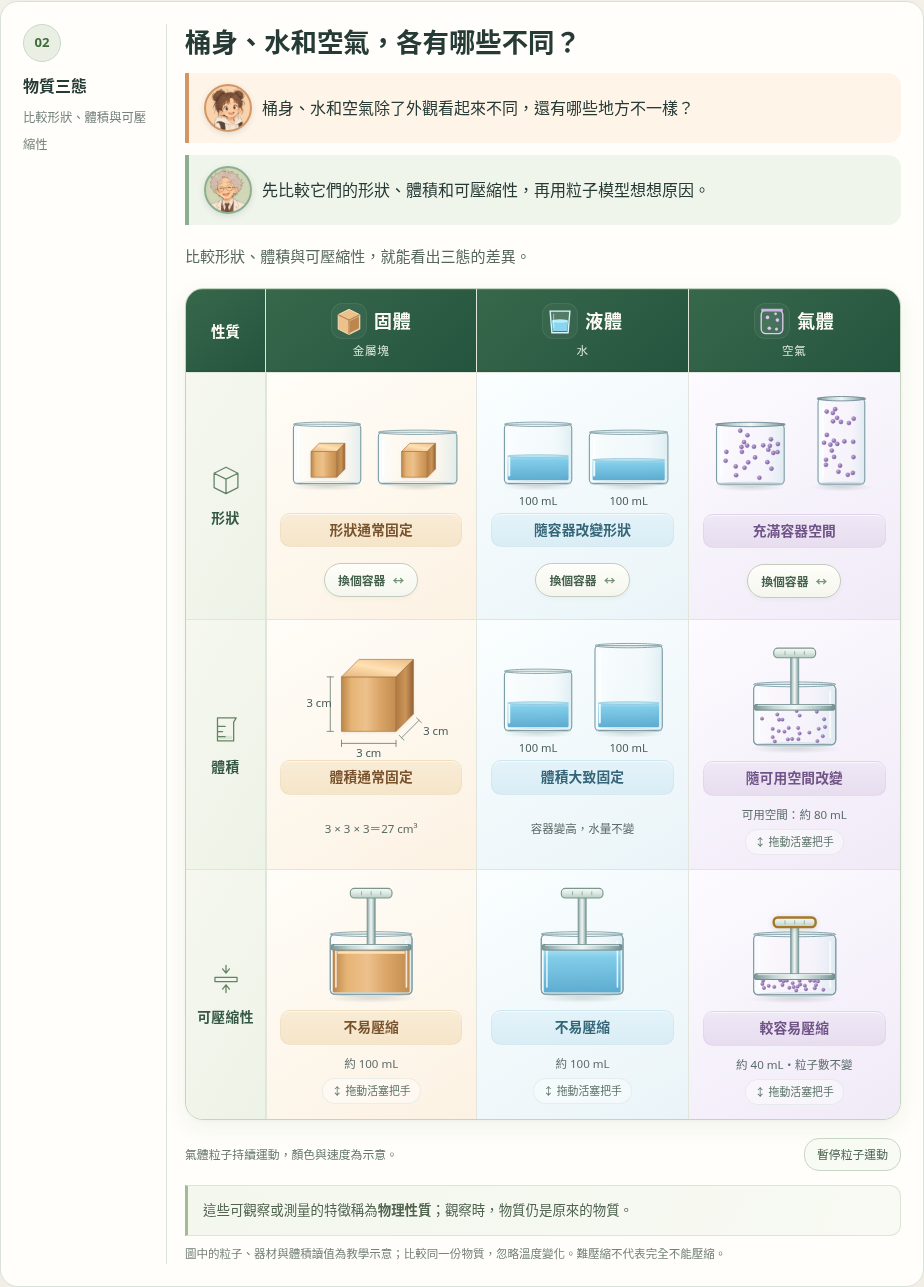
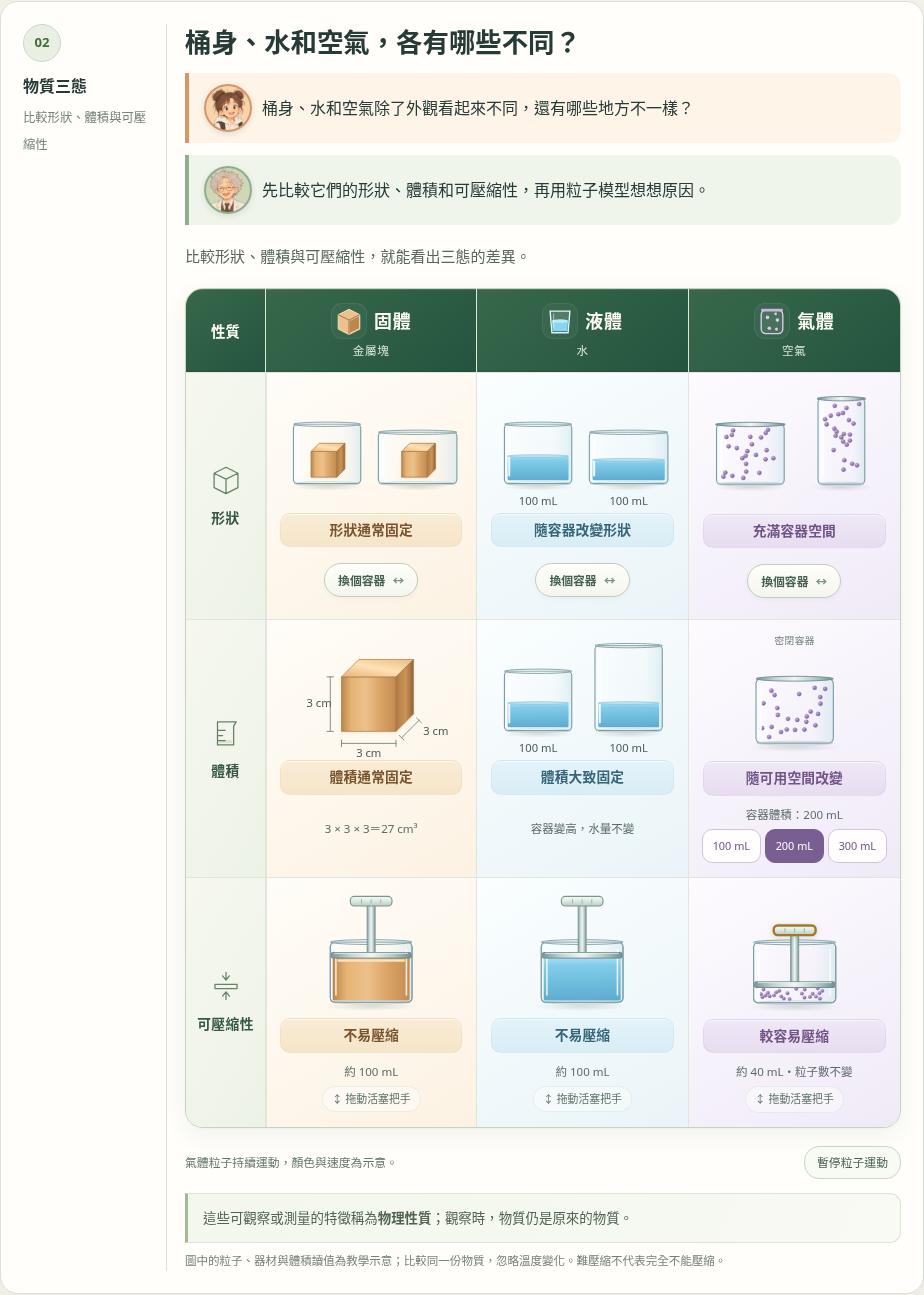
以切換密閉容器呈現2.1氣體體積並區分壓縮

diff --git a/units/2/parts/2.1/index.html b/units/2/parts/2.1/index.html
@@ -636,8 +636,8 @@
     #s2 .next-hint { border-left-color:#88ae86; background:#f4f7f1; color:#4c6255!important; }
     #s2 button:focus-visible,#s2 a:focus-visible,#s2 input:focus-visible { outline-color:#79b89a; }
   </style>
-  <link rel="stylesheet" href="assets/states-table.css?v=20261029-motion">
-  <script src="assets/states-table.js?v=20261029-motion" defer></script>
+  <link rel="stylesheet" href="assets/states-table.css?v=20261029-volume-switch">
+  <script src="assets/states-table.js?v=20261029-volume-switch" defer></script>
 </head>
 <body>
   <header class="shell masthead">
@@ -743,7 +743,7 @@
               <table class="states-visual-table">
                 <caption class="visually-hidden">固體、液體與氣體的形狀、體積及可壓縮性比較；所有圖解與結論直接可見。</caption>
                 <colgroup><col class="sv-property-col"><col><col><col></colgroup>
-                <thead><tr><th scope="col">性質</th><th scope="col" class="sv-solid"><span class="sv-state-icon" aria-hidden="true"><svg viewBox="0 0 40 40"><path d="M8 13l12-6 12 6v16l-12 6-12-6z" fill="#edc18c" stroke="#ffe4bf"/><path d="M8 13l12 6 12-6M20 19v16" fill="none" stroke="#976e42"/><path d="M21 20l10-5v13l-10 5z" fill="#bc864e"/></svg></span><strong>固體</strong><small>金屬塊</small></th><th scope="col" class="sv-liquid"><span class="sv-state-icon" aria-hidden="true"><svg viewBox="0 0 40 40"><path d="M9 9h22l-2 24H11z" fill="#ffffff24" stroke="#dcf4fc" stroke-width="1.5"/><path d="M11 20h18l-1 11H12z" fill="#89d5ed"/><ellipse cx="20" cy="20" rx="9" ry="2" fill="#b6edfb"/><path d="M13 12v16" stroke="#fff" opacity=".6"/></svg></span><strong>液體</strong><small>水</small></th><th scope="col" class="sv-gas"><span class="sv-state-icon" aria-hidden="true"><svg viewBox="0 0 40 40"><rect x="8" y="8" width="24" height="26" rx="5" fill="#ffffff15" stroke="#ddccef" stroke-width="1.5"/><path d="M8 8h24" stroke="#cbb3e4" stroke-width="3"/><g fill="#d9c8ef"><circle cx="15" cy="16" r="2"/><circle cx="26" cy="19" r="2"/><circle cx="17" cy="28" r="2"/><circle cx="25" cy="29" r="1.7"/><circle cx="24" cy="12" r="1.5"/></g></svg></span><strong>氣體</strong><small>空氣</small></th></tr></thead><tbody><tr><th scope="row"><span class="sv-property-icon" aria-hidden="true"><svg viewBox="0 0 40 40"><path d="M6 12l14-7 14 7v17l-14 7-14-7zM6 12l14 7 14-7M20 19v17"/></svg></span>形狀</th><td class="sv-solid" data-visual-cell="solid.shape"><div class="sv-cell"><svg viewBox="0 0 240 160" role="img" aria-label="同一金屬塊放入兩種容器，形狀與大小保持相同" ><ellipse class="sv-shadow" cx="65" cy="127" rx="45" ry="5"/><ellipse class="sv-shadow" cx="178" cy="127" rx="39" ry="5"/><rect class="sv-glass" x="23.0" y="49" width="84" height="74" rx="5"/><g class="sv-cube"><path d="M45 83l32 0v32h-32z" fill="url(#sv-metal-front)"/><path d="M45 83l10.24 -10.24h32l-10.24 10.24z" fill="url(#sv-metal-top)"/><path d="M77 83l10.24 -10.24v32l-10.24 10.24z" fill="url(#sv-metal-side)"/></g><path class="sv-highlight" d="M29.0 57v56"/><ellipse class="sv-rim" cx="65.0" cy="49.0" rx="42.0" ry="2.7"/><ellipse class="sv-floor-line" cx="65.0" cy="123.0" rx="41.0" ry="2.3"/><g data-vessel-changing="solid"><rect class="sv-glass" x="149.0" y="17" width="58" height="106" rx="5"/><g class="sv-cube"><path d="M158 83l32 0v32h-32z" fill="url(#sv-metal-front)"/><path d="M158 83l10.24 -10.24h32l-10.24 10.24z" fill="url(#sv-metal-top)"/><path d="M190 83l10.24 -10.24v32l-10.24 10.24z" fill="url(#sv-metal-side)"/></g><path class="sv-highlight" d="M155.0 25v88"/><ellipse class="sv-rim" cx="178.0" cy="17.0" rx="29.0" ry="2.7"/><ellipse class="sv-floor-line" cx="178.0" cy="123.0" rx="28.0" ry="2.3"/></g></svg><strong class="sv-label">形狀通常固定</strong><div class="sv-controls"><button class="sv-action" type="button" data-change-vessel="solid">換個容器 <span aria-hidden="true">↔</span></button></div></div></td><td class="sv-liquid" data-visual-cell="liquid.shape"><div class="sv-cell"><svg viewBox="0 0 240 160" role="img" aria-label="同一份100毫升的水在寬杯水位較低，在窄杯水位較高" ><ellipse class="sv-shadow" cx="65" cy="127" rx="45" ry="5"/><ellipse class="sv-shadow" cx="178" cy="127" rx="39" ry="5"/><rect class="sv-glass" x="23.0" y="49" width="84" height="74" rx="5"/><rect class="sv-water" x="27.0" y="88.73684210526315" width="76" height="30.263157894736842" rx="2"/><path class="sv-surface" d="M27.0 88.73684210526315h76"/><path class="sv-highlight" d="M29.0 57v56"/><ellipse class="sv-rim" cx="65.0" cy="49.0" rx="42.0" ry="2.7"/><ellipse class="sv-floor-line" cx="65.0" cy="123.0" rx="41.0" ry="2.3"/><ellipse class="sv-meniscus" cx="65.0" cy="88.73684210526315" rx="38.0" ry="1.8"/><g data-vessel-changing="liquid"><rect class="sv-glass" x="149.0" y="17" width="58" height="106" rx="5"/><rect class="sv-water" x="153.0" y="73.0" width="50" height="46.0" rx="2"/><path class="sv-surface" d="M153.0 73.0h50"/><path class="sv-highlight" d="M155.0 25v88"/><ellipse class="sv-rim" cx="178.0" cy="17.0" rx="29.0" ry="2.7"/><ellipse class="sv-floor-line" cx="178.0" cy="123.0" rx="28.0" ry="2.3"/><ellipse class="sv-meniscus" cx="178.0" cy="73.0" rx="25.0" ry="1.8"/></g><text x="65" y="150" text-anchor="middle">100 mL</text><text x="178" y="150" text-anchor="middle">100 mL</text></svg><strong class="sv-label">隨容器改變形狀</strong><div class="sv-controls"><button class="sv-action" type="button" data-change-vessel="liquid">換個容器 <span aria-hidden="true">↔</span></button></div></div></td><td class="sv-gas" data-visual-cell="gas.shape"><div class="sv-cell"><svg viewBox="0 0 240 160" role="img" aria-label="同樣數量的氣體粒子分布於兩種密閉容器的整個空間" ><ellipse class="sv-shadow" cx="65" cy="127" rx="45" ry="5"/><ellipse class="sv-shadow" cx="178" cy="127" rx="39" ry="5"/><rect class="sv-glass" x="23.0" y="49" width="84" height="74" rx="5"/><path class="sv-highlight" d="M29.0 57v56"/><path class="sv-seal" d="M23.0 49h84"/><g data-shape-particles><circle class="sv-particle" cx="74.149" cy="96.632" r="2.6"/><circle class="sv-particle" cx="93.154" cy="69.968" r="2.6"/><circle class="sv-particle" cx="38.225" cy="103.118" r="2.6"/><circle class="sv-particle" cx="54.717" cy="79.262" r="2.6"/><circle class="sv-particle" cx="90.235" cy="85.532" r="2.6"/><circle class="sv-particle" cx="69.494" cy="63.758" r="2.6"/><circle class="sv-particle" cx="85.853" cy="100.508" r="2.6"/><circle class="sv-particle" cx="95.352" cy="60.242" r="2.6"/><circle class="sv-particle" cx="94.225" cy="93.536" r="2.6"/><circle class="sv-particle" cx="49.782" cy="91.940" r="2.6"/><circle class="sv-particle" cx="77.579" cy="87.278" r="2.6"/><circle class="sv-particle" cx="40.283" cy="80.294" r="2.6"/><circle class="sv-particle" cx="77.782" cy="73.598" r="2.6"/><circle class="sv-particle" cx="69.564" cy="81.554" r="2.6"/><circle class="sv-particle" cx="56.432" cy="100.862" r="2.6"/><circle class="sv-particle" cx="55.046" cy="62.618" r="2.6"/><circle class="sv-particle" cx="70.285" cy="107.486" r="2.6"/><circle class="sv-particle" cx="40.178" cy="89.282" r="2.6"/><circle class="sv-particle" cx="88.408" cy="77.810" r="2.6"/><circle class="sv-particle" cx="84.985" cy="65.012" r="2.6"/><circle class="sv-particle" cx="52.925" cy="70.346" r="2.6"/><circle class="sv-particle" cx="78.272" cy="112.166" r="2.6"/><circle class="sv-particle" cx="92.181" cy="108.158" r="2.6"/><circle class="sv-particle" cx="47.871" cy="108.704" r="2.6"/></g><ellipse class="sv-rim sv-rim-sealed" cx="65.0" cy="49.0" rx="42.0" ry="2.7"/><ellipse class="sv-floor-line" cx="65.0" cy="123.0" rx="41.0" ry="2.3"/><g data-vessel-changing="gas"><rect class="sv-glass" x="149.0" y="17" width="58" height="106" rx="5"/><path class="sv-highlight" d="M155.0 25v88"/><path class="sv-seal" d="M149.0 17h58"/><g data-shape-particles><circle class="sv-particle" cx="183.751" cy="86.302" r="2.6"/><circle class="sv-particle" cx="195.697" cy="45.418" r="2.6"/><circle class="sv-particle" cx="161.170" cy="96.248" r="2.6"/><circle class="sv-particle" cx="171.536" cy="59.668" r="2.6"/><circle class="sv-particle" cx="193.862" cy="69.282" r="2.6"/><circle class="sv-particle" cx="180.825" cy="35.896" r="2.6"/><circle class="sv-particle" cx="191.108" cy="92.246" r="2.6"/><circle class="sv-particle" cx="197.078" cy="30.504" r="2.6"/><circle class="sv-particle" cx="196.370" cy="81.555" r="2.6"/><circle class="sv-particle" cx="168.434" cy="79.108" r="2.6"/><circle class="sv-particle" cx="185.907" cy="71.960" r="2.6"/><circle class="sv-particle" cx="162.464" cy="61.251" r="2.6"/><circle class="sv-particle" cx="186.034" cy="50.984" r="2.6"/><circle class="sv-particle" cx="180.869" cy="63.183" r="2.6"/><circle class="sv-particle" cx="172.614" cy="92.788" r="2.6"/><circle class="sv-particle" cx="171.743" cy="34.148" r="2.6"/><circle class="sv-particle" cx="181.322" cy="102.945" r="2.6"/><circle class="sv-particle" cx="162.398" cy="75.032" r="2.6"/><circle class="sv-particle" cx="192.714" cy="57.442" r="2.6"/><circle class="sv-particle" cx="190.562" cy="37.818" r="2.6"/><circle class="sv-particle" cx="170.410" cy="45.997" r="2.6"/><circle class="sv-particle" cx="186.342" cy="110.121" r="2.6"/><circle class="sv-particle" cx="195.085" cy="103.976" r="2.6"/><circle class="sv-particle" cx="167.233" cy="104.813" r="2.6"/></g><ellipse class="sv-rim sv-rim-sealed" cx="178.0" cy="17.0" rx="29.0" ry="2.7"/><ellipse class="sv-floor-line" cx="178.0" cy="123.0" rx="28.0" ry="2.3"/></g></svg><strong class="sv-label">充滿容器空間</strong><div class="sv-controls"><button class="sv-action" type="button" data-change-vessel="gas">換個容器 <span aria-hidden="true">↔</span></button></div></div></td></tr><tr><th scope="row"><span class="sv-property-icon" aria-hidden="true"><svg viewBox="0 0 40 40"><path d="M10 7h22l-3 5v22H10V7zM10 17h9m-9 6h6m-6 6h9"/><path d="M12 28h15v4H12z" fill="currentColor" opacity=".15" stroke="none"/></svg></span>體積</th><td class="sv-solid" data-visual-cell="solid.volume"><div class="sv-cell"><svg viewBox="0 0 240 160" role="img" aria-label="金屬塊長寬高皆為3公分，體積27立方公分" ><g class="sv-cube"><path d="M83 56l68 0v68h-68z" fill="url(#sv-metal-front)"/><path d="M83 56l21.76 -21.76h68l-21.76 21.76z" fill="url(#sv-metal-top)"/><path d="M151 56l21.76 -21.76v68l-21.76 21.76z" fill="url(#sv-metal-side)"/></g><path class="sv-dimension" d="M69 56v68m-4-68h8m-8 68h8M83 139h68m-68-4v8m68-8v8"/><text x="55" y="94" text-anchor="middle">3 cm</text><text x="117" y="156" text-anchor="middle">3 cm</text><path class="sv-dimension" data-dimension="depth" d="M158 132l21.76-21.76M155 129l6 6M176.76 107.24l6 6"/><text x="185" y="128" data-dimension-label="depth">3 cm</text></svg><strong class="sv-label">體積通常固定</strong><div class="sv-controls"><span class="sv-value">3 × 3 × 3＝27 cm³</span></div></div></td><td class="sv-liquid" data-visual-cell="liquid.volume"><div class="sv-cell"><svg viewBox="0 0 240 160" role="img" aria-label="兩個等寬、不同高度的容器盛裝相同100毫升的水，水位相同，較高容器的上方空間更多" ><ellipse class="sv-shadow" cx="65" cy="127" rx="45" ry="5"/><ellipse class="sv-shadow" cx="178" cy="127" rx="45" ry="5"/><rect class="sv-glass" x="23.0" y="49" width="84" height="74" rx="5"/><rect class="sv-water" x="27.0" y="88.73684210526315" width="76" height="30.263157894736842" rx="2"/><path class="sv-surface" d="M27.0 88.73684210526315h76"/><path class="sv-highlight" d="M29.0 57v56"/><ellipse class="sv-rim" cx="65.0" cy="49.0" rx="42.0" ry="2.7"/><ellipse class="sv-floor-line" cx="65.0" cy="123.0" rx="41.0" ry="2.3"/><ellipse class="sv-meniscus" cx="65.0" cy="88.73684210526315" rx="38.0" ry="1.8"/><g data-vessel-static="liquid"><rect class="sv-glass" x="136" y="17" width="84" height="106" rx="5"/><rect class="sv-water" x="140" y="88.73684210526315" width="76" height="30.263157894736842" rx="2"/><path class="sv-surface" d="M140 88.73684210526315h76"/><path class="sv-highlight" d="M142 25v88"/><ellipse class="sv-rim" cx="178.0" cy="17.0" rx="42.0" ry="2.7"/><ellipse class="sv-floor-line" cx="178.0" cy="123.0" rx="41.0" ry="2.3"/><ellipse class="sv-meniscus" cx="178.0" cy="88.73684210526315" rx="38.0" ry="1.8"/></g><text x="65" y="150" text-anchor="middle">100 mL</text><text x="178" y="150" text-anchor="middle">100 mL</text></svg><strong class="sv-label">體積大致固定</strong><div class="sv-controls"><span class="sv-value">容器變高，水量不變</span></div></div></td><td class="sv-gas" data-visual-cell="gas.volume"><div class="sv-cell"><svg viewBox="0 0 240 160" role="img" aria-label="密閉氣缸的活塞可推拉，同一批24個粒子的可用空間隨之改變" data-piston="gas-volume" data-kind="gas" data-mode="volume"><ellipse class="sv-shadow" cx="120" cy="145" rx="58" ry="6"/><rect class="sv-glass" x="69" y="65" width="102" height="75" rx="6"/><g data-piston-fill><g data-piston-particles><circle class="sv-particle" cx="83" cy="111.875" r="2.8"/><circle class="sv-particle" cx="98" cy="111.875" r="2.8"/><circle class="sv-particle" cx="113" cy="111.875" r="2.8"/><circle class="sv-particle" cx="128" cy="111.875" r="2.8"/><circle class="sv-particle" cx="143" cy="111.875" r="2.8"/><circle class="sv-particle" cx="158" cy="111.875" r="2.8"/><circle class="sv-particle" cx="83" cy="117.625" r="2.8"/><circle class="sv-particle" cx="98" cy="117.625" r="2.8"/><circle class="sv-particle" cx="113" cy="117.625" r="2.8"/><circle class="sv-particle" cx="128" cy="117.625" r="2.8"/><circle class="sv-particle" cx="143" cy="117.625" r="2.8"/><circle class="sv-particle" cx="158" cy="117.625" r="2.8"/><circle class="sv-particle" cx="83" cy="123.375" r="2.8"/><circle class="sv-particle" cx="98" cy="123.375" r="2.8"/><circle class="sv-particle" cx="113" cy="123.375" r="2.8"/><circle class="sv-particle" cx="128" cy="123.375" r="2.8"/><circle class="sv-particle" cx="143" cy="123.375" r="2.8"/><circle class="sv-particle" cx="158" cy="123.375" r="2.8"/><circle class="sv-particle" cx="83" cy="129.125" r="2.8"/><circle class="sv-particle" cx="98" cy="129.125" r="2.8"/><circle class="sv-particle" cx="113" cy="129.125" r="2.8"/><circle class="sv-particle" cx="128" cy="129.125" r="2.8"/><circle class="sv-particle" cx="143" cy="129.125" r="2.8"/><circle class="sv-particle" cx="158" cy="129.125" r="2.8"/></g></g><ellipse class="sv-rim" cx="120" cy="65" rx="51" ry="3"/><path class="sv-barrel-light" d="M76 74v57M164 74v57"/><ellipse class="sv-floor-line" cx="120" cy="140" rx="48" ry="2.3"/><g data-piston-handle role="slider" tabindex="0" aria-label="氣體體積活塞" aria-valuemin="0" aria-valuemax="100" aria-valuenow="33" aria-orientation="vertical" transform="translate(0 100)"><rect class="sv-rod" x="115" y="-66" width="10" height="68" rx="3"/><rect class="sv-grip" x="94" y="-72" width="52" height="12" rx="5"/><rect class="sv-piston-face" x="70" y="-2" width="100" height="7" rx="2"/><path class="sv-grip-grooves" d="M108-68v4m12-4v4m12-4v4"/><path class="sv-piston-glint" d="M74-1h92"/><rect class="sv-hit" x="78" y="-79" width="84" height="88" fill="transparent"/></g><path class="sv-front" d="M69 70v64q0 6 6 6h90q6 0 6-6V70"/></svg><strong class="sv-label">隨可用空間改變</strong><div class="sv-controls"><output class="sv-value" data-piston-readout="gas-volume">可用空間：約 67 mL</output><span class="sv-gesture">↕ 拖動活塞把手</span></div></div></td></tr><tr><th scope="row"><span class="sv-property-icon" aria-hidden="true"><svg viewBox="0 0 40 40"><path d="M20 4v9m-4-5 4 5 4-5M20 36v-9m-4 5 4-5 4 5M7 18h26v5H7z"/></svg></span>可壓縮性</th><td class="sv-solid" data-visual-cell="solid.compress"><div class="sv-cell"><svg viewBox="0 0 240 160" role="img" aria-label="密閉活塞中的金屬塊，一般施力時體積幾乎不變" data-piston="solid-compress" data-kind="solid" data-mode="compress"><ellipse class="sv-shadow" cx="120" cy="145" rx="58" ry="6"/><rect class="sv-glass" x="69" y="65" width="102" height="75" rx="6"/><rect data-piston-fill x="72" y="82" width="96" height="56" rx="2" fill="url(#sv-metal-front)"/><path d="M78 88h84" stroke="#ffdfb4" stroke-width="3"/><ellipse class="sv-rim" cx="120" cy="65" rx="51" ry="3"/><path class="sv-barrel-light" d="M76 74v57M164 74v57"/><ellipse class="sv-floor-line" cx="120" cy="140" rx="48" ry="2.3"/><g data-piston-handle role="slider" tabindex="0" aria-label="固體壓縮活塞" aria-valuemin="0" aria-valuemax="100" aria-valuenow="0" aria-orientation="vertical" transform="translate(0 80)"><rect class="sv-rod" x="115" y="-66" width="10" height="68" rx="3"/><rect class="sv-grip" x="94" y="-72" width="52" height="12" rx="5"/><rect class="sv-piston-face" x="70" y="-2" width="100" height="7" rx="2"/><path class="sv-grip-grooves" d="M108-68v4m12-4v4m12-4v4"/><path class="sv-piston-glint" d="M74-1h92"/><rect class="sv-hit" x="78" y="-79" width="84" height="88" fill="transparent"/></g><path class="sv-front" d="M69 70v64q0 6 6 6h90q6 0 6-6V70"/></svg><strong class="sv-label">不易壓縮</strong><div class="sv-controls"><output class="sv-value" data-piston-readout="solid-compress">約 100 mL</output><span class="sv-gesture">↕ 拖動活塞把手</span></div></div></td><td class="sv-liquid" data-visual-cell="liquid.compress"><div class="sv-cell"><svg viewBox="0 0 240 160" role="img" aria-label="完全充水且沒有氣泡的密閉活塞，施力後水的體積幾乎不變" data-piston="liquid-compress" data-kind="liquid" data-mode="compress"><ellipse class="sv-shadow" cx="120" cy="145" rx="58" ry="6"/><rect class="sv-glass" x="69" y="65" width="102" height="75" rx="6"/><rect class="sv-water" data-piston-fill x="72" y="82" width="96" height="56" rx="2"/><ellipse class="sv-rim" cx="120" cy="65" rx="51" ry="3"/><path class="sv-barrel-light" d="M76 74v57M164 74v57"/><ellipse class="sv-floor-line" cx="120" cy="140" rx="48" ry="2.3"/><g data-piston-handle role="slider" tabindex="0" aria-label="液體壓縮活塞" aria-valuemin="0" aria-valuemax="100" aria-valuenow="0" aria-orientation="vertical" transform="translate(0 80)"><rect class="sv-rod" x="115" y="-66" width="10" height="68" rx="3"/><rect class="sv-grip" x="94" y="-72" width="52" height="12" rx="5"/><rect class="sv-piston-face" x="70" y="-2" width="100" height="7" rx="2"/><path class="sv-grip-grooves" d="M108-68v4m12-4v4m12-4v4"/><path class="sv-piston-glint" d="M74-1h92"/><rect class="sv-hit" x="78" y="-79" width="84" height="88" fill="transparent"/></g><path class="sv-front" d="M69 70v64q0 6 6 6h90q6 0 6-6V70"/></svg><strong class="sv-label">不易壓縮</strong><div class="sv-controls"><output class="sv-value" data-piston-readout="liquid-compress">約 100 mL</output><span class="sv-gesture">↕ 拖動活塞把手</span></div></div></td><td class="sv-gas" data-visual-cell="gas.compress"><div class="sv-cell"><svg viewBox="0 0 240 160" role="img" aria-label="密閉氣缸的活塞可推拉，同一批24個粒子的可用空間隨之改變" data-piston="gas-compress" data-kind="gas" data-mode="compress"><ellipse class="sv-shadow" cx="120" cy="145" rx="58" ry="6"/><rect class="sv-glass" x="69" y="65" width="102" height="75" rx="6"/><g data-piston-fill><g data-piston-particles><circle class="sv-particle" cx="83" cy="94.375" r="2.8"/><circle class="sv-particle" cx="98" cy="94.375" r="2.8"/><circle class="sv-particle" cx="113" cy="94.375" r="2.8"/><circle class="sv-particle" cx="128" cy="94.375" r="2.8"/><circle class="sv-particle" cx="143" cy="94.375" r="2.8"/><circle class="sv-particle" cx="158" cy="94.375" r="2.8"/><circle class="sv-particle" cx="83" cy="105.125" r="2.8"/><circle class="sv-particle" cx="98" cy="105.125" r="2.8"/><circle class="sv-particle" cx="113" cy="105.125" r="2.8"/><circle class="sv-particle" cx="128" cy="105.125" r="2.8"/><circle class="sv-particle" cx="143" cy="105.125" r="2.8"/><circle class="sv-particle" cx="158" cy="105.125" r="2.8"/><circle class="sv-particle" cx="83" cy="115.875" r="2.8"/><circle class="sv-particle" cx="98" cy="115.875" r="2.8"/><circle class="sv-particle" cx="113" cy="115.875" r="2.8"/><circle class="sv-particle" cx="128" cy="115.875" r="2.8"/><circle class="sv-particle" cx="143" cy="115.875" r="2.8"/><circle class="sv-particle" cx="158" cy="115.875" r="2.8"/><circle class="sv-particle" cx="83" cy="126.625" r="2.8"/><circle class="sv-particle" cx="98" cy="126.625" r="2.8"/><circle class="sv-particle" cx="113" cy="126.625" r="2.8"/><circle class="sv-particle" cx="128" cy="126.625" r="2.8"/><circle class="sv-particle" cx="143" cy="126.625" r="2.8"/><circle class="sv-particle" cx="158" cy="126.625" r="2.8"/></g></g><ellipse class="sv-rim" cx="120" cy="65" rx="51" ry="3"/><path class="sv-barrel-light" d="M76 74v57M164 74v57"/><ellipse class="sv-floor-line" cx="120" cy="140" rx="48" ry="2.3"/><g data-piston-handle role="slider" tabindex="0" aria-label="氣體壓縮活塞" aria-valuemin="0" aria-valuemax="100" aria-valuenow="0" aria-orientation="vertical" transform="translate(0 80)"><rect class="sv-rod" x="115" y="-66" width="10" height="68" rx="3"/><rect class="sv-grip" x="94" y="-72" width="52" height="12" rx="5"/><rect class="sv-piston-face" x="70" y="-2" width="100" height="7" rx="2"/><path class="sv-grip-grooves" d="M108-68v4m12-4v4m12-4v4"/><path class="sv-piston-glint" d="M74-1h92"/><rect class="sv-hit" x="78" y="-79" width="84" height="88" fill="transparent"/></g><path class="sv-front" d="M69 70v64q0 6 6 6h90q6 0 6-6V70"/></svg><strong class="sv-label">較容易壓縮</strong><div class="sv-controls"><output class="sv-value" data-piston-readout="gas-compress">約 100 mL</output><span class="sv-gesture">↕ 拖動活塞把手</span></div></div></td></tr></tbody></table>
+                <thead><tr><th scope="col">性質</th><th scope="col" class="sv-solid"><span class="sv-state-icon" aria-hidden="true"><svg viewBox="0 0 40 40"><path d="M8 13l12-6 12 6v16l-12 6-12-6z" fill="#edc18c" stroke="#ffe4bf"/><path d="M8 13l12 6 12-6M20 19v16" fill="none" stroke="#976e42"/><path d="M21 20l10-5v13l-10 5z" fill="#bc864e"/></svg></span><strong>固體</strong><small>金屬塊</small></th><th scope="col" class="sv-liquid"><span class="sv-state-icon" aria-hidden="true"><svg viewBox="0 0 40 40"><path d="M9 9h22l-2 24H11z" fill="#ffffff24" stroke="#dcf4fc" stroke-width="1.5"/><path d="M11 20h18l-1 11H12z" fill="#89d5ed"/><ellipse cx="20" cy="20" rx="9" ry="2" fill="#b6edfb"/><path d="M13 12v16" stroke="#fff" opacity=".6"/></svg></span><strong>液體</strong><small>水</small></th><th scope="col" class="sv-gas"><span class="sv-state-icon" aria-hidden="true"><svg viewBox="0 0 40 40"><rect x="8" y="8" width="24" height="26" rx="5" fill="#ffffff15" stroke="#ddccef" stroke-width="1.5"/><path d="M8 8h24" stroke="#cbb3e4" stroke-width="3"/><g fill="#d9c8ef"><circle cx="15" cy="16" r="2"/><circle cx="26" cy="19" r="2"/><circle cx="17" cy="28" r="2"/><circle cx="25" cy="29" r="1.7"/><circle cx="24" cy="12" r="1.5"/></g></svg></span><strong>氣體</strong><small>空氣</small></th></tr></thead><tbody><tr><th scope="row"><span class="sv-property-icon" aria-hidden="true"><svg viewBox="0 0 40 40"><path d="M6 12l14-7 14 7v17l-14 7-14-7zM6 12l14 7 14-7M20 19v17"/></svg></span>形狀</th><td class="sv-solid" data-visual-cell="solid.shape"><div class="sv-cell"><svg viewBox="0 0 240 160" role="img" aria-label="同一金屬塊放入兩種容器，形狀與大小保持相同" ><ellipse class="sv-shadow" cx="65" cy="127" rx="45" ry="5"/><ellipse class="sv-shadow" cx="178" cy="127" rx="39" ry="5"/><rect class="sv-glass" x="23.0" y="49" width="84" height="74" rx="5"/><g class="sv-cube"><path d="M45 83l32 0v32h-32z" fill="url(#sv-metal-front)"/><path d="M45 83l10.24 -10.24h32l-10.24 10.24z" fill="url(#sv-metal-top)"/><path d="M77 83l10.24 -10.24v32l-10.24 10.24z" fill="url(#sv-metal-side)"/></g><path class="sv-highlight" d="M29.0 57v56"/><ellipse class="sv-rim" cx="65.0" cy="49.0" rx="42.0" ry="2.7"/><ellipse class="sv-floor-line" cx="65.0" cy="123.0" rx="41.0" ry="2.3"/><g data-vessel-changing="solid"><rect class="sv-glass" x="149.0" y="17" width="58" height="106" rx="5"/><g class="sv-cube"><path d="M158 83l32 0v32h-32z" fill="url(#sv-metal-front)"/><path d="M158 83l10.24 -10.24h32l-10.24 10.24z" fill="url(#sv-metal-top)"/><path d="M190 83l10.24 -10.24v32l-10.24 10.24z" fill="url(#sv-metal-side)"/></g><path class="sv-highlight" d="M155.0 25v88"/><ellipse class="sv-rim" cx="178.0" cy="17.0" rx="29.0" ry="2.7"/><ellipse class="sv-floor-line" cx="178.0" cy="123.0" rx="28.0" ry="2.3"/></g></svg><strong class="sv-label">形狀通常固定</strong><div class="sv-controls"><button class="sv-action" type="button" data-change-vessel="solid">換個容器 <span aria-hidden="true">↔</span></button></div></div></td><td class="sv-liquid" data-visual-cell="liquid.shape"><div class="sv-cell"><svg viewBox="0 0 240 160" role="img" aria-label="同一份100毫升的水在寬杯水位較低，在窄杯水位較高" ><ellipse class="sv-shadow" cx="65" cy="127" rx="45" ry="5"/><ellipse class="sv-shadow" cx="178" cy="127" rx="39" ry="5"/><rect class="sv-glass" x="23.0" y="49" width="84" height="74" rx="5"/><rect class="sv-water" x="27.0" y="88.73684210526315" width="76" height="30.263157894736842" rx="2"/><path class="sv-surface" d="M27.0 88.73684210526315h76"/><path class="sv-highlight" d="M29.0 57v56"/><ellipse class="sv-rim" cx="65.0" cy="49.0" rx="42.0" ry="2.7"/><ellipse class="sv-floor-line" cx="65.0" cy="123.0" rx="41.0" ry="2.3"/><ellipse class="sv-meniscus" cx="65.0" cy="88.73684210526315" rx="38.0" ry="1.8"/><g data-vessel-changing="liquid"><rect class="sv-glass" x="149.0" y="17" width="58" height="106" rx="5"/><rect class="sv-water" x="153.0" y="73.0" width="50" height="46.0" rx="2"/><path class="sv-surface" d="M153.0 73.0h50"/><path class="sv-highlight" d="M155.0 25v88"/><ellipse class="sv-rim" cx="178.0" cy="17.0" rx="29.0" ry="2.7"/><ellipse class="sv-floor-line" cx="178.0" cy="123.0" rx="28.0" ry="2.3"/><ellipse class="sv-meniscus" cx="178.0" cy="73.0" rx="25.0" ry="1.8"/></g><text x="65" y="150" text-anchor="middle">100 mL</text><text x="178" y="150" text-anchor="middle">100 mL</text></svg><strong class="sv-label">隨容器改變形狀</strong><div class="sv-controls"><button class="sv-action" type="button" data-change-vessel="liquid">換個容器 <span aria-hidden="true">↔</span></button></div></div></td><td class="sv-gas" data-visual-cell="gas.shape"><div class="sv-cell"><svg viewBox="0 0 240 160" role="img" aria-label="同樣數量的氣體粒子分布於兩種密閉容器的整個空間" ><ellipse class="sv-shadow" cx="65" cy="127" rx="45" ry="5"/><ellipse class="sv-shadow" cx="178" cy="127" rx="39" ry="5"/><rect class="sv-glass" x="23.0" y="49" width="84" height="74" rx="5"/><path class="sv-highlight" d="M29.0 57v56"/><path class="sv-seal" d="M23.0 49h84"/><g data-shape-particles><circle class="sv-particle" cx="74.149" cy="96.632" r="2.6"/><circle class="sv-particle" cx="93.154" cy="69.968" r="2.6"/><circle class="sv-particle" cx="38.225" cy="103.118" r="2.6"/><circle class="sv-particle" cx="54.717" cy="79.262" r="2.6"/><circle class="sv-particle" cx="90.235" cy="85.532" r="2.6"/><circle class="sv-particle" cx="69.494" cy="63.758" r="2.6"/><circle class="sv-particle" cx="85.853" cy="100.508" r="2.6"/><circle class="sv-particle" cx="95.352" cy="60.242" r="2.6"/><circle class="sv-particle" cx="94.225" cy="93.536" r="2.6"/><circle class="sv-particle" cx="49.782" cy="91.940" r="2.6"/><circle class="sv-particle" cx="77.579" cy="87.278" r="2.6"/><circle class="sv-particle" cx="40.283" cy="80.294" r="2.6"/><circle class="sv-particle" cx="77.782" cy="73.598" r="2.6"/><circle class="sv-particle" cx="69.564" cy="81.554" r="2.6"/><circle class="sv-particle" cx="56.432" cy="100.862" r="2.6"/><circle class="sv-particle" cx="55.046" cy="62.618" r="2.6"/><circle class="sv-particle" cx="70.285" cy="107.486" r="2.6"/><circle class="sv-particle" cx="40.178" cy="89.282" r="2.6"/><circle class="sv-particle" cx="88.408" cy="77.810" r="2.6"/><circle class="sv-particle" cx="84.985" cy="65.012" r="2.6"/><circle class="sv-particle" cx="52.925" cy="70.346" r="2.6"/><circle class="sv-particle" cx="78.272" cy="112.166" r="2.6"/><circle class="sv-particle" cx="92.181" cy="108.158" r="2.6"/><circle class="sv-particle" cx="47.871" cy="108.704" r="2.6"/></g><ellipse class="sv-rim sv-rim-sealed" cx="65.0" cy="49.0" rx="42.0" ry="2.7"/><ellipse class="sv-floor-line" cx="65.0" cy="123.0" rx="41.0" ry="2.3"/><g data-vessel-changing="gas"><rect class="sv-glass" x="149.0" y="17" width="58" height="106" rx="5"/><path class="sv-highlight" d="M155.0 25v88"/><path class="sv-seal" d="M149.0 17h58"/><g data-shape-particles><circle class="sv-particle" cx="183.751" cy="86.302" r="2.6"/><circle class="sv-particle" cx="195.697" cy="45.418" r="2.6"/><circle class="sv-particle" cx="161.170" cy="96.248" r="2.6"/><circle class="sv-particle" cx="171.536" cy="59.668" r="2.6"/><circle class="sv-particle" cx="193.862" cy="69.282" r="2.6"/><circle class="sv-particle" cx="180.825" cy="35.896" r="2.6"/><circle class="sv-particle" cx="191.108" cy="92.246" r="2.6"/><circle class="sv-particle" cx="197.078" cy="30.504" r="2.6"/><circle class="sv-particle" cx="196.370" cy="81.555" r="2.6"/><circle class="sv-particle" cx="168.434" cy="79.108" r="2.6"/><circle class="sv-particle" cx="185.907" cy="71.960" r="2.6"/><circle class="sv-particle" cx="162.464" cy="61.251" r="2.6"/><circle class="sv-particle" cx="186.034" cy="50.984" r="2.6"/><circle class="sv-particle" cx="180.869" cy="63.183" r="2.6"/><circle class="sv-particle" cx="172.614" cy="92.788" r="2.6"/><circle class="sv-particle" cx="171.743" cy="34.148" r="2.6"/><circle class="sv-particle" cx="181.322" cy="102.945" r="2.6"/><circle class="sv-particle" cx="162.398" cy="75.032" r="2.6"/><circle class="sv-particle" cx="192.714" cy="57.442" r="2.6"/><circle class="sv-particle" cx="190.562" cy="37.818" r="2.6"/><circle class="sv-particle" cx="170.410" cy="45.997" r="2.6"/><circle class="sv-particle" cx="186.342" cy="110.121" r="2.6"/><circle class="sv-particle" cx="195.085" cy="103.976" r="2.6"/><circle class="sv-particle" cx="167.233" cy="104.813" r="2.6"/></g><ellipse class="sv-rim sv-rim-sealed" cx="178.0" cy="17.0" rx="29.0" ry="2.7"/><ellipse class="sv-floor-line" cx="178.0" cy="123.0" rx="28.0" ry="2.3"/></g></svg><strong class="sv-label">充滿容器空間</strong><div class="sv-controls"><button class="sv-action" type="button" data-change-vessel="gas">換個容器 <span aria-hidden="true">↔</span></button></div></div></td></tr><tr><th scope="row"><span class="sv-property-icon" aria-hidden="true"><svg viewBox="0 0 40 40"><path d="M10 7h22l-3 5v22H10V7zM10 17h9m-9 6h6m-6 6h9"/><path d="M12 28h15v4H12z" fill="currentColor" opacity=".15" stroke="none"/></svg></span>體積</th><td class="sv-solid" data-visual-cell="solid.volume"><div class="sv-cell"><svg viewBox="0 0 240 160" role="img" aria-label="金屬塊長寬高皆為3公分，體積27立方公分" ><g class="sv-cube"><path d="M83 56l68 0v68h-68z" fill="url(#sv-metal-front)"/><path d="M83 56l21.76 -21.76h68l-21.76 21.76z" fill="url(#sv-metal-top)"/><path d="M151 56l21.76 -21.76v68l-21.76 21.76z" fill="url(#sv-metal-side)"/></g><path class="sv-dimension" d="M69 56v68m-4-68h8m-8 68h8M83 139h68m-68-4v8m68-8v8"/><text x="55" y="94" text-anchor="middle">3 cm</text><text x="117" y="156" text-anchor="middle">3 cm</text><path class="sv-dimension" data-dimension="depth" d="M158 132l21.76-21.76M155 129l6 6M176.76 107.24l6 6"/><text x="185" y="128" data-dimension-label="depth">3 cm</text></svg><strong class="sv-label">體積通常固定</strong><div class="sv-controls"><span class="sv-value">3 × 3 × 3＝27 cm³</span></div></div></td><td class="sv-liquid" data-visual-cell="liquid.volume"><div class="sv-cell"><svg viewBox="0 0 240 160" role="img" aria-label="兩個等寬、不同高度的容器盛裝相同100毫升的水，水位相同，較高容器的上方空間更多" ><ellipse class="sv-shadow" cx="65" cy="127" rx="45" ry="5"/><ellipse class="sv-shadow" cx="178" cy="127" rx="45" ry="5"/><rect class="sv-glass" x="23.0" y="49" width="84" height="74" rx="5"/><rect class="sv-water" x="27.0" y="88.73684210526315" width="76" height="30.263157894736842" rx="2"/><path class="sv-surface" d="M27.0 88.73684210526315h76"/><path class="sv-highlight" d="M29.0 57v56"/><ellipse class="sv-rim" cx="65.0" cy="49.0" rx="42.0" ry="2.7"/><ellipse class="sv-floor-line" cx="65.0" cy="123.0" rx="41.0" ry="2.3"/><ellipse class="sv-meniscus" cx="65.0" cy="88.73684210526315" rx="38.0" ry="1.8"/><g data-vessel-static="liquid"><rect class="sv-glass" x="136" y="17" width="84" height="106" rx="5"/><rect class="sv-water" x="140" y="88.73684210526315" width="76" height="30.263157894736842" rx="2"/><path class="sv-surface" d="M140 88.73684210526315h76"/><path class="sv-highlight" d="M142 25v88"/><ellipse class="sv-rim" cx="178.0" cy="17.0" rx="42.0" ry="2.7"/><ellipse class="sv-floor-line" cx="178.0" cy="123.0" rx="41.0" ry="2.3"/><ellipse class="sv-meniscus" cx="178.0" cy="88.73684210526315" rx="38.0" ry="1.8"/></g><text x="65" y="150" text-anchor="middle">100 mL</text><text x="178" y="150" text-anchor="middle">100 mL</text></svg><strong class="sv-label">體積大致固定</strong><div class="sv-controls"><span class="sv-value">容器變高，水量不變</span></div></div></td><td class="sv-gas" data-visual-cell="gas.volume"><div class="sv-cell"><svg viewBox="0 0 240 160" role="img" aria-label="200毫升密閉容器，同一批氣體粒子分布於全部可用空間" data-gas-volume data-volume="200"><ellipse class="sv-shadow" cx="120" cy="143" rx="58" ry="6"/><rect class="sv-glass" x="72" y="58" width="96" height="80" rx="6"/><g data-volume-particles><circle class="sv-particle" cx="83" cy="70" r="2.6"/><circle class="sv-particle" cx="97" cy="70" r="2.6"/><circle class="sv-particle" cx="111" cy="70" r="2.6"/><circle class="sv-particle" cx="125" cy="70" r="2.6"/><circle class="sv-particle" cx="139" cy="70" r="2.6"/><circle class="sv-particle" cx="153" cy="70" r="2.6"/><circle class="sv-particle" cx="83" cy="86" r="2.6"/><circle class="sv-particle" cx="97" cy="86" r="2.6"/><circle class="sv-particle" cx="111" cy="86" r="2.6"/><circle class="sv-particle" cx="125" cy="86" r="2.6"/><circle class="sv-particle" cx="139" cy="86" r="2.6"/><circle class="sv-particle" cx="153" cy="86" r="2.6"/><circle class="sv-particle" cx="83" cy="102" r="2.6"/><circle class="sv-particle" cx="97" cy="102" r="2.6"/><circle class="sv-particle" cx="111" cy="102" r="2.6"/><circle class="sv-particle" cx="125" cy="102" r="2.6"/><circle class="sv-particle" cx="139" cy="102" r="2.6"/><circle class="sv-particle" cx="153" cy="102" r="2.6"/><circle class="sv-particle" cx="83" cy="118" r="2.6"/><circle class="sv-particle" cx="97" cy="118" r="2.6"/><circle class="sv-particle" cx="111" cy="118" r="2.6"/><circle class="sv-particle" cx="125" cy="118" r="2.6"/><circle class="sv-particle" cx="139" cy="118" r="2.6"/><circle class="sv-particle" cx="153" cy="118" r="2.6"/></g><path class="sv-highlight" d="M78 66v62"/><ellipse class="sv-rim sv-rim-sealed" cx="120" cy="58" rx="48" ry="3"/><ellipse class="sv-floor-line" cx="120" cy="138" rx="47" ry="2.3"/><text x="120" y="15" text-anchor="middle" class="sv-vessel-caption">密閉容器</text></svg><strong class="sv-label">隨可用空間改變</strong><div class="sv-controls"><output class="sv-value" data-gas-volume-readout>容器體積：200 mL</output><div class="sv-volume-options" role="group" aria-label="切換密閉容器的體積"><button type="button" data-gas-volume-choice="100" aria-pressed="false">100 mL</button><button type="button" data-gas-volume-choice="200" aria-pressed="true">200 mL</button><button type="button" data-gas-volume-choice="300" aria-pressed="false">300 mL</button></div></div></div></td></tr><tr><th scope="row"><span class="sv-property-icon" aria-hidden="true"><svg viewBox="0 0 40 40"><path d="M20 4v9m-4-5 4 5 4-5M20 36v-9m-4 5 4-5 4 5M7 18h26v5H7z"/></svg></span>可壓縮性</th><td class="sv-solid" data-visual-cell="solid.compress"><div class="sv-cell"><svg viewBox="0 0 240 160" role="img" aria-label="密閉活塞中的金屬塊，一般施力時體積幾乎不變" data-piston="solid-compress" data-kind="solid" data-mode="compress"><ellipse class="sv-shadow" cx="120" cy="145" rx="58" ry="6"/><rect class="sv-glass" x="69" y="65" width="102" height="75" rx="6"/><rect data-piston-fill x="72" y="82" width="96" height="56" rx="2" fill="url(#sv-metal-front)"/><path d="M78 88h84" stroke="#ffdfb4" stroke-width="3"/><ellipse class="sv-rim" cx="120" cy="65" rx="51" ry="3"/><path class="sv-barrel-light" d="M76 74v57M164 74v57"/><ellipse class="sv-floor-line" cx="120" cy="140" rx="48" ry="2.3"/><g data-piston-handle role="slider" tabindex="0" aria-label="固體壓縮活塞" aria-valuemin="0" aria-valuemax="100" aria-valuenow="0" aria-orientation="vertical" transform="translate(0 80)"><rect class="sv-rod" x="115" y="-66" width="10" height="68" rx="3"/><rect class="sv-grip" x="94" y="-72" width="52" height="12" rx="5"/><rect class="sv-piston-face" x="70" y="-2" width="100" height="7" rx="2"/><path class="sv-grip-grooves" d="M108-68v4m12-4v4m12-4v4"/><path class="sv-piston-glint" d="M74-1h92"/><rect class="sv-hit" x="78" y="-79" width="84" height="88" fill="transparent"/></g><path class="sv-front" d="M69 70v64q0 6 6 6h90q6 0 6-6V70"/></svg><strong class="sv-label">不易壓縮</strong><div class="sv-controls"><output class="sv-value" data-piston-readout="solid-compress">約 100 mL</output><span class="sv-gesture">↕ 拖動活塞把手</span></div></div></td><td class="sv-liquid" data-visual-cell="liquid.compress"><div class="sv-cell"><svg viewBox="0 0 240 160" role="img" aria-label="完全充水且沒有氣泡的密閉活塞，施力後水的體積幾乎不變" data-piston="liquid-compress" data-kind="liquid" data-mode="compress"><ellipse class="sv-shadow" cx="120" cy="145" rx="58" ry="6"/><rect class="sv-glass" x="69" y="65" width="102" height="75" rx="6"/><rect class="sv-water" data-piston-fill x="72" y="82" width="96" height="56" rx="2"/><ellipse class="sv-rim" cx="120" cy="65" rx="51" ry="3"/><path class="sv-barrel-light" d="M76 74v57M164 74v57"/><ellipse class="sv-floor-line" cx="120" cy="140" rx="48" ry="2.3"/><g data-piston-handle role="slider" tabindex="0" aria-label="液體壓縮活塞" aria-valuemin="0" aria-valuemax="100" aria-valuenow="0" aria-orientation="vertical" transform="translate(0 80)"><rect class="sv-rod" x="115" y="-66" width="10" height="68" rx="3"/><rect class="sv-grip" x="94" y="-72" width="52" height="12" rx="5"/><rect class="sv-piston-face" x="70" y="-2" width="100" height="7" rx="2"/><path class="sv-grip-grooves" d="M108-68v4m12-4v4m12-4v4"/><path class="sv-piston-glint" d="M74-1h92"/><rect class="sv-hit" x="78" y="-79" width="84" height="88" fill="transparent"/></g><path class="sv-front" d="M69 70v64q0 6 6 6h90q6 0 6-6V70"/></svg><strong class="sv-label">不易壓縮</strong><div class="sv-controls"><output class="sv-value" data-piston-readout="liquid-compress">約 100 mL</output><span class="sv-gesture">↕ 拖動活塞把手</span></div></div></td><td class="sv-gas" data-visual-cell="gas.compress"><div class="sv-cell"><svg viewBox="0 0 240 160" role="img" aria-label="密閉氣缸的活塞可推拉，同一批24個粒子的可用空間隨之改變" data-piston="gas-compress" data-kind="gas" data-mode="compress"><ellipse class="sv-shadow" cx="120" cy="145" rx="58" ry="6"/><rect class="sv-glass" x="69" y="65" width="102" height="75" rx="6"/><g data-piston-fill><g data-piston-particles><circle class="sv-particle" cx="83" cy="94.375" r="2.8"/><circle class="sv-particle" cx="98" cy="94.375" r="2.8"/><circle class="sv-particle" cx="113" cy="94.375" r="2.8"/><circle class="sv-particle" cx="128" cy="94.375" r="2.8"/><circle class="sv-particle" cx="143" cy="94.375" r="2.8"/><circle class="sv-particle" cx="158" cy="94.375" r="2.8"/><circle class="sv-particle" cx="83" cy="105.125" r="2.8"/><circle class="sv-particle" cx="98" cy="105.125" r="2.8"/><circle class="sv-particle" cx="113" cy="105.125" r="2.8"/><circle class="sv-particle" cx="128" cy="105.125" r="2.8"/><circle class="sv-particle" cx="143" cy="105.125" r="2.8"/><circle class="sv-particle" cx="158" cy="105.125" r="2.8"/><circle class="sv-particle" cx="83" cy="115.875" r="2.8"/><circle class="sv-particle" cx="98" cy="115.875" r="2.8"/><circle class="sv-particle" cx="113" cy="115.875" r="2.8"/><circle class="sv-particle" cx="128" cy="115.875" r="2.8"/><circle class="sv-particle" cx="143" cy="115.875" r="2.8"/><circle class="sv-particle" cx="158" cy="115.875" r="2.8"/><circle class="sv-particle" cx="83" cy="126.625" r="2.8"/><circle class="sv-particle" cx="98" cy="126.625" r="2.8"/><circle class="sv-particle" cx="113" cy="126.625" r="2.8"/><circle class="sv-particle" cx="128" cy="126.625" r="2.8"/><circle class="sv-particle" cx="143" cy="126.625" r="2.8"/><circle class="sv-particle" cx="158" cy="126.625" r="2.8"/></g></g><ellipse class="sv-rim" cx="120" cy="65" rx="51" ry="3"/><path class="sv-barrel-light" d="M76 74v57M164 74v57"/><ellipse class="sv-floor-line" cx="120" cy="140" rx="48" ry="2.3"/><g data-piston-handle role="slider" tabindex="0" aria-label="氣體壓縮活塞" aria-valuemin="0" aria-valuemax="100" aria-valuenow="0" aria-orientation="vertical" transform="translate(0 80)"><rect class="sv-rod" x="115" y="-66" width="10" height="68" rx="3"/><rect class="sv-grip" x="94" y="-72" width="52" height="12" rx="5"/><rect class="sv-piston-face" x="70" y="-2" width="100" height="7" rx="2"/><path class="sv-grip-grooves" d="M108-68v4m12-4v4m12-4v4"/><path class="sv-piston-glint" d="M74-1h92"/><rect class="sv-hit" x="78" y="-79" width="84" height="88" fill="transparent"/></g><path class="sv-front" d="M69 70v64q0 6 6 6h90q6 0 6-6V70"/></svg><strong class="sv-label">較容易壓縮</strong><div class="sv-controls"><output class="sv-value" data-piston-readout="gas-compress">約 100 mL</output><span class="sv-gesture">↕ 拖動活塞把手</span></div></div></td></tr></tbody></table>
             </div>
             <div class="sv-motion-tools"><span>氣體粒子持續運動，顏色與速度為示意。</span><button type="button" class="sv-motion-toggle" data-gas-motion-toggle aria-pressed="false">暫停粒子運動</button></div>
             <p class="sv-note">這些可觀察或測量的特徵稱為<strong>物理性質</strong>；觀察時，物質仍是原來的物質。</p>

diff --git a/units/2/parts/2.1/assets/states-table.js b/units/2/parts/2.1/assets/states-table.js
@@ -116,16 +116,38 @@
       button.setAttribute('aria-label', `換個容器；目前${['細高', '寬淺', '方形'][current]}容器`);
     });
   });
+  const volumeContainer = section.querySelector('[data-gas-volume]');
+  const volumeParticles = volumeContainer.querySelector('[data-volume-particles]');
+  function selectGasVolume(value) {
+    if (![100,200,300].includes(value)) return;
+    // Different sealed containers, not an inward-moving piston. Fixed cross-section.
+    const height = 8 + value / 100 * 36, y = 138 - height;
+    const glass = volumeContainer.querySelector('.sv-glass');
+    glass.setAttribute('y',y); glass.setAttribute('height',height);
+    volumeContainer.querySelector('.sv-rim').setAttribute('cy',y);
+    volumeContainer.querySelector('.sv-highlight').setAttribute('d',`M78 ${y+8}v${height-18}`);
+    volumeContainer.dataset.volume = String(value);
+    volumeContainer.setAttribute('aria-label',`${value}毫升密閉容器，同一批氣體粒子分布於全部可用空間`);
+    gasFieldFor(volumeParticles,{left:76,top:y+4,right:164,bottom:134});
+    section.querySelector('[data-gas-volume-readout]').textContent = `容器體積：${value} mL`;
+    section.querySelectorAll('[data-gas-volume-choice]').forEach(button => {
+      button.setAttribute('aria-pressed',String(+button.dataset.gasVolumeChoice===value));
+    });
+  }
+  selectGasVolume(200);
+  section.querySelectorAll('[data-gas-volume-choice]').forEach(button => {
+    button.addEventListener('click',()=>selectGasVolume(+button.dataset.gasVolumeChoice));
+  });
   section.querySelectorAll('[data-piston]').forEach(svg => {
     // The fixed barrel has its bottom at y=140. Gas space = bottom minus piston.
-    const kind = svg.dataset.kind, mode = svg.dataset.mode;
+    const kind = svg.dataset.kind;
     const handle = svg.querySelector('[data-piston-handle]');
     svg.setAttribute('role', 'group');
     const output = section.querySelector(`[data-piston-readout="${svg.dataset.piston}"]`);
     const dots = [...svg.querySelectorAll('.sv-particle')];
     dots.forEach(dot => dot.setAttribute('r', '2.1'));
     const gasField = kind === 'gas' ? gasFieldFor(svg.querySelector('[data-piston-particles]'),{ left:76, top:84, right:164, bottom:138 }) : null;
-    let compression = mode === 'volume' ? 100 / 3 : 0;
+    let compression = 0;
     function update(value) {
       compression = Math.max(0, Math.min(100, value));
       // Ordinary pressure: solid/liquid movement is too small to show at this scale.
@@ -138,7 +160,7 @@
       svg.dataset.compression = String(kind === 'gas' ? compression : 0);
       if (kind === 'gas') {
         gasField.resize({ left:76, top:y + 4, right:164, bottom:138 });
-        output.textContent = mode === 'volume' ? `可用空間：約 ${Math.round(volume)} mL` : `約 ${Math.round(volume)} mL・粒子數不變`;
+        output.textContent = `約 ${Math.round(volume)} mL・粒子數不變`;
       } else {
         const fill = svg.querySelector('[data-piston-fill]');
         fill.setAttribute('y', y + 4.5);

diff --git a/units/2/parts/2.1/assets/states-table.css b/units/2/parts/2.1/assets/states-table.css
@@ -73,3 +73,9 @@
 #s2 .sv-motion-toggle:hover { background:#eef4e8; }
 #s2 .sv-motion-toggle[aria-pressed="true"] { background:#e7f0e2; border-color:#91ac88; }
 #s2 .sv-motion-toggle:focus-visible { outline:3px solid #ac8038; outline-offset:3px; }
+.states-visual-table .sv-volume-options { display:flex; justify-content:center; width:100%; max-width:185px; gap:4px; }
+.states-visual-table .sv-volume-options button { flex:1; min-width:0; min-height:34px; padding:5px 3px; border:1px solid #d0c4dd; border-radius:10px; background:#fffdfd; color:#6d5581; font:inherit; font-size:.68rem; cursor:pointer; white-space:nowrap; }
+.states-visual-table .sv-volume-options button:hover { border-color:#997fb1; background:#f4eff9; }
+.states-visual-table .sv-volume-options button[aria-pressed="true"] { background:#795e92; border-color:#795e92; color:#fff; }
+.states-visual-table .sv-volume-options button:focus-visible { outline:3px solid #ac8038; outline-offset:2px; }
+.states-visual-table .sv-vessel-caption { font-size:12px; fill:#748078; letter-spacing:.04em; }

diff --git a/docs/reviews/unit-2.1-states-table/review.md b/docs/reviews/unit-2.1-states-table/review.md
@@ -61,3 +61,9 @@ CHROMIUM_PATH=/usr/bin/chromium node --test tests/unit-2.1-states-table.test.cjs
 換容器及壓縮時沿用同一批粒子與當前運動狀態，將當前位置映射進新的可用空間，粒子數不變且不穿出器壁。速度與顏色為教學示意，不對應真實分子尺度或溫度實測；本模型未模擬壓縮升溫。表格下方提供暫停／繼續，預設播放；減少動畫偏好下減速，離開此區或頁面不可見時停止運算，回來後從原狀態繼續。
 
 新增檢查實際追蹤四個模型的座標變化及連續 45 個畫面的邊界，確認每格都在動且各有 24 粒；核對暫停後位置不變、續播恢復、離開區塊停止及返回續播、最大壓縮後仍持續運動、手機與減少動畫偏好下仍可觀察運動。9 組子測試及外層共 10 項通過，0 失敗、0 跳過；原有尺寸、水位及活塞操作檢查亦通過。已更新截圖與測試日誌，待使用者檢視。
+
+## 氣體體積與壓縮分開呈現（2026-10-29）
+
+依使用者要求，氣體「體積」格由活塞改成密閉容器，可選擇 100、200、300 mL，預設 200 mL。容器截面固定，內部高度按容積比例改變，同一批 24 個粒子在每種容器內都持續運動並分布於可用空間；原有材質與杯口保留。圖中沒有活塞、推桿或拖曳手把。「可壓縮性」格的三態活塞仍獨立運作，兩格呈現不同觀察方式。
+
+新增檢查逐一切換容器、驗證容量與圖形高度、單一選取狀態、原粒子 DOM 身分與數量、連續運動及邊界，同時確認壓縮格讀值不受影響。另檢查鍵盤切換與手機觸控。全套 10 組子測試及外層共 11 項通過，0 失敗、0 跳過。四個氣體模型的暫停／續播、原有三維尺寸、水位及壓縮操作亦通過。已檢視整體桌機畫面與 300 mL 狀態；新增 `gas-volume-100.png`、`gas-volume-300.png`，並更新整體截圖及日誌。待使用者檢視。

diff --git a/tests/README.md b/tests/README.md
@@ -295,4 +295,4 @@ node --test --test-concurrency=1 tests/unit-4.2-filtration.test.cjs tests/unit-4
 CHROMIUM_PATH=/usr/bin/chromium node --test tests/unit-2.1-states-table.test.cjs
 ```
 
-測試自行啟停 Python 靜態伺服器與 Chromium。檢查九格圖解預設可見、固體外形、液體等量與體積格等寬／同水位比較、換容器後杯口與水面對齊、四個氣體模型持續運動、粒子數與連續邊界、暫停／續播及離開畫面停止、格內活塞的滑鼠／鍵盤／觸控、固體與液體拖曳位置不變而氣體可壓縮、其他教學區塊保留、五種螢幕寬度及減少動畫設定。9 組子測試，連同外層共 10 項；`STATES_CAPTURE_DIR` 可指定截圖目錄。審閱紀錄見 `docs/reviews/unit-2.1-states-table/review.md`。
+測試自行啟停 Python 靜態伺服器與 Chromium。檢查九格圖解預設可見、固體外形、液體等量與體積格等寬／同水位比較、換容器後杯口與水面對齊、氣體體積格的100／200／300mL容器切換與獨立壓縮、四個氣體模型持續運動、粒子數與連續邊界、暫停／續播及離開畫面停止、格內活塞的滑鼠／鍵盤／觸控、固體與液體拖曳位置不變而氣體可壓縮、其他教學區塊保留、五種螢幕寬度及減少動畫設定。10 組子測試，連同外層共 11 項；`STATES_CAPTURE_DIR` 可指定截圖目錄。審閱紀錄見 `docs/reviews/unit-2.1-states-table/review.md`。
